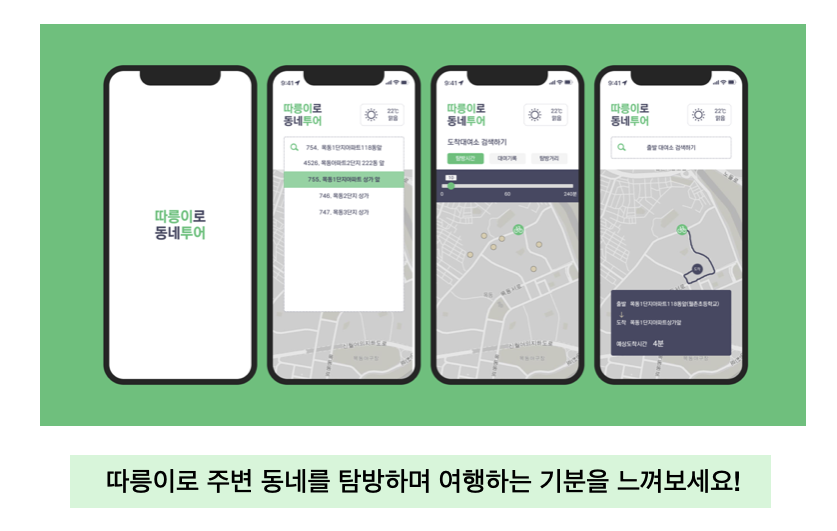
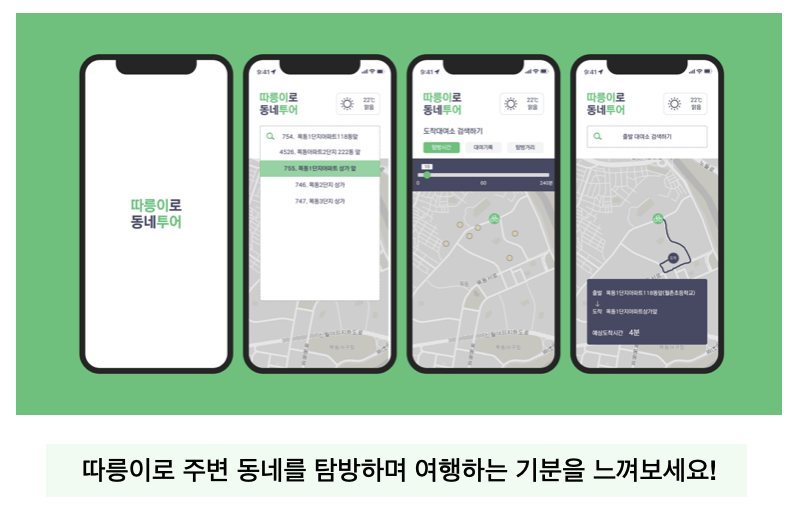
2022-08-06

diff --git a/README.md b/README.md
@@ -1,10 +1,9 @@
 # 따릉이로 동네투어
 
-</br>
 <div align='center'>
     <img src='ReadMeImg/mainImgWithtext.png'>
 </div>
-</br>
+<!-- </br> -->
 
 <!-- ![mainImgWIthtext](/ReadMeImg/mainImgWithtext.png) -->
 
@@ -12,11 +11,11 @@
 
 따릉이로 동네투어는 **따릉이를 타고 집 주변 동네를 탐방할 수 있는 목적지를 추천**하는 앱입니다. 같은 목적지를 가더라도 평소 가지 않던 길로 여정을 꾸리다보면 이전에 알지 못했던 새로운 동네를 발견할 수 있습니다. **동네 여행의 재미는 자신만의 경로를 개척하는 과정에서 느끼게 됩니다.** 따릉이로 동네투어를 통해 목적지를 선정하고 본인만의 경로로 이동하며 기존에 몰랐던 주변 동네 풍경을 감상하거나 새로운 음식점, 카페 등을 발견하면서 여행하는 재미를 느낄 수 있습니다.
 
-</br>
+<!-- </br> -->
 <div align='center'>
-    <img src='ReadMeImg/variousDirection.png'>
+    <img width='600px' src='ReadMeImg/variousDirection.png'>
 </div>
-</br>
+<!-- </br> -->
 
 ### 목적지까지 본인만의 경로를 개척해보세요!
 
@@ -56,21 +55,21 @@
 - 1년간 3000만건의 대여기록 발생, 대여소 하나 당 8천~ 12만 건의 대여기록을 보유. 대여소 별 편차 큼
 - 하나의 대여소에서 출발한 자전거는 인근 수백개의 대여소에 분산되어 반납. **그러나 90% 자전거가 20%의 대여소에 집중적으로 반납, 10%의 자전거만이 나머지 80%의 대여소로 반납**
 
-</br>
+<!-- </br> -->
 <div align='center'>
-    <img src='ReadMeImg/stationToStation.png'>
+    <img width='400px'src='ReadMeImg/stationToStation.png'>
 </div>
-</br>
+<!-- </br> -->
 
 ## 동네 여행에 적합한 대여소 추천 모델 개발
 
 사용자에게 적합한 목적지를 선정하는 단계를 거치면서 정제된 대여소를 보여줍니다. 출발지는 여의나루역 대여소로 약 1600개 대여소와 상호 작용을 합니다. 1,2단계 전처리 과정은 여행에 적합하지 않은 목적지를 제거하는데 집중됩니다. 3단계는 밀집해 있는 대여소를 하나로 통합 합니다. 비슷한 위치에 있는 대여소는 경로상 차이가 없으므로 하나의 대여소로 통합해서 사용자가 더 쉽게 판단할 수 있도록 설정했습니다. 각 전처리 단계를 세부적으로 설명하겠습니다.
 
-</br>
+<!-- </br> -->
 <div align='center'>
-    <img src='ReadMeImg/process0.png'>
+    <img width='700px' src='ReadMeImg/process0.png'>
 </div>
-</br>
+<!-- </br> -->
 
 ### 0단계 : 전체 대여기록에서 사용자가 선택한 대여소의 대여기록 추출
 
@@ -82,49 +81,49 @@
 
 해당 대여소까지 가는 경로상에 자전거로 이동하기 어려운 지형 있거나, 주변을 갈만한 이유가 없을수도 있고, 차량 이동이 잦은 경로라 자전거 이용이 위험할 수 도 있습니다. 따라서 반납 건수가 일정 수준 미만인 대여소는 여행지로 갈만한 대여소로 구분 지을 수 있습니다. 아래와 같이 최소한의 기준을 설정하여 불필요한 대여소를 제거한 결과 자전거로 이동하기 어려운 대여소들을 쉽게 제거할 수 있었습니다.
 
-</br>
+<!-- </br> -->
 <div align='center'>
-    <img src='ReadMeImg/process1.png'>
+    <img width='600px' src='ReadMeImg/process1.png'>
 </div>
-</br>
+<!-- </br> -->
 
 ### 2단계 : 대여소 간 관계를 통해 적합하지 않은 대여소 제거
 
 첫 번째 단계가 최소한의 기준을 설정해 대여소를 제거하는 방식이라면, 두 번째 단계는 대여소 별 관계를 파악해 적합하지 않는 대여소를 제거하는 방식입니다. 이 방식은 대여소 별 반납 비율을 구한 다음 진행합니다. 예로들어 A 대여소에서 B 대여소로의 반납기록이 50건이고, B 대여소에서 A 대여소의 반납 기록이 200건이라고 생각해 보겠습니다. 출발지와 목적지만 바뀔 뿐 같은 경로를 이동 함에도 A 대여소의 기록은 B 대여소의 1/4에 불과합니다.
 
-</br>
+<!-- </br> -->
 <div align='center'>
     <img width='700px' src='ReadMeImg/bikeRentalRate.png'>
 </div>
-</br>
+<!-- </br> -->
 
 불균형이 발생한 이유를 단순히 생각하더라도 B 대여소에서 A 대여소로 가는 경우가 그 반대보다 편하기 때문이라 판단할 수 있습니다. 실제로 기존 데이터에 고도 데이터를 융합해 분석해보니 고도와 대여 비율에 상관 관계가 있음을 확인했습니다.
 
 아래 그래프는 출발 도착 대여소 간 고도 차이와 반납 비율의 차이를 보여줍니다. 그래프의 X 축은 A → B 대여소의 높이 차이를 의미합니다. 높이 차이가 60m 에서 시작해서 계속해서 줄어들어 최대 -60m까지 내려 가는 것을 보여주고, Y축은 평균 대여 비율이 0.6 배에서 시작해서 고도차이가 거의 없을때는 1:1 비율에 수렴한 뒤 1.69배 까지 올라가게 됩니다. 이 그래프를 통해 우리가 확인할 수 있는 점은 대여 비율을 통해 해당 경로가 이동하기 쉬운 길인지, 아닌지를 분별 할 수 있다는 사실입니다.
 
-</br>
+<!-- </br> -->
 <div align='center'>
-    <img src='ReadMeImg/rateAndHeight.png'>
+    <img width='600px' src='ReadMeImg/rateAndHeight.png'>
 </div>
-</br>
+<!-- </br> -->
 
 ### 3단계 : K-means를 활용해 중첩 대여소 제거
 
 최종 단계는 중첩된 대여소들을 하나로 통합하는 단계입니다. 동네 여행의 재미는 새로운 경로로 이동하며 기존에 알지 못했던 주변 동네의 새로운 모습을 발견하는것으로 부터 옵니다. 이런 취미를 오랫동안 즐기기 위해서는 사용자에게 다양한 경로가 제공되어야 합니다. 출발지에서 목적지로 향하는 방향에 따라 여행 경로가 결정되기 때문에 동일한 경로를 이용하는 대여소는 사실상 중복된 대여소와 같습니다. 중첩된 대여소를 제거하고 방향을 보존함으로써 사용자에 더 좋은 목적지를 추천할 수 있습니다.
 
-</br>
+<!-- </br> -->
 <div align='center'>
-    <img src='ReadMeImg/process3-1.png'>
+    <img width='600px' src='ReadMeImg/process3-1.png'>
 </div>
-</br>
+<!-- </br> -->
 
 중첩된 대여소를 찾고 제거하는 과정은 두 번의 클러스터링 방법을 적용하여 달성됩니다. 클러스터링 기법을 두 번 적용하는 이유는 출발 대여소를 기준으로 같은 방향에 위치한 대여소들 중에 군집된 대여소를 쉽게 찾아낼 수 있기 때문입니다. 아래 지도를 보면 알 수 있듯이 출발 대여소 기준으로 같은 방향에 있는 대여소들이 군집을 형성하고 있습니다. 1차로 군집된 대여소들에 다시 한번 클러스터링을 적용하는 이유는 특정 군집에 속한 대여소들의 세부 방향을 정하기 위함입니다. 즉 1차 클러스터링으로 큰 방향성을 정한 뒤 2차 클러스터링으로 세부적인 방향을 정하는 것입니다.
 
-</br>
+<!-- </br> -->
 <div align='center'>
-    <img src='ReadMeImg/process3-2.png'>
+    <img width='600px' src='ReadMeImg/process3-2.png'>
 </div>
-</br>
+<!-- </br> -->
 
 1차 클러스터링의 경우 출발 대여소와의 직선거리를 기준으로 대여소를 구분한 다음 클러스터링 기법을 적요합니다. 예로들어 출발 대여소와 2 ~ 4km 사이에 있는 대여소를 추출한 다음 해당 대여소들을 가지고  클러스터링을 진행합니다. 이런 방식으로 가장 멀리 떨어져 있는 거리까지 클러스터링을 진행합니다. 거리를 나눠 세부적으로 클러스터링을 적용함으로써 거리에 대한 다양성 또한 보존할 수 있습니다.
 
@@ -141,17 +140,3 @@
 데이터 분석의 경우 군에서 많은 경험이 있었지만 분석 결과를 실제로 활용하는 것은 제 몫이 아니었습니다. 결과를 직접 활용해서 뭔가 사람들에게 영향을 줄 수 있는 사용자들이 좀 사용해 볼 수 있고 실제로 어떤 기능을 갖고 있는 최종적인 생산물을 만들어 낸다는 것에서 개인적인 성취감을 느꼈습니다.
 
 한편으로는 이경험이 나중에 다른 분야의 사람들과들을 할 때 특히 개발 분야에 있는 사람에게도 일할 때 도움이 될 수 있을 거라고 생각합니다. 그들의 언어를 제가 습득을 하고 있고 앞으로도 계속 습득 할 예정이기 때문에 그들의 언어로 최대한 이야기를 할 수있고 그래 통해서 어떤 시너지 효과를 기대할 수 있을 거라 생각합니다. 제가 기본적인 기능을 갖춘 제품을 만들고 다른 직원에서 이 기능을 가지고 아예 새롭게 완벽한 제품을 만든 다음에는 제가 분석한 결과가 실제로도 반영이 될 수 있을 거라고 생각이 되서 어 상당히 업무적으로도 도움이 될 것 같다는 생각을 했습니다. (만들면서 내가 분석한 데이터가 실용성 있는지 체크할 수 있었고 과정에서 인사이트를 얻었다.)
-
-창고
-
-### 느낀점
-
-웹 개발 관련해서는 원래 궁금 했었던 내용이었는데 목적을 가지고 배움으로써 더 빠르고 더 의미있게 배웠던 거 같습니다. 이렇게 한 번 배우고 난 내용들은 시간이 지나면 까먹겠지만 그 배우는 속도가 다시 배우는 속도가 몇배는 빠르다는 것을 알고 있었고, 나중에도 도움이 될 거라고 생각했습니다 실제로 다음 프로젝트에서도 이 역량을 활용해서 프로젝트를 진행하고 그 결과를 누군가에게 직접 내가 만든 문서 기능을 사람들이 사용할 수 있도록 제공 했다는 점에서 의미가 있는 것 같습니다.
-
-다른 분야에 대한 지식은 회사 내 다른 분야의 사람들과 소통하는데도 도움 될 수 있습니다. 왜냐하면은 그들의 언어를 제가 배우고 이해하고 있으면 앞으로도 계속 배울 것이기 때문에 그 사람들의 그 사람들과 이야기 할 수 있는 잡 점이 많다고 생각합니다.
-
-분석방법 1번
-
-이 프로젝트 데이터 분석은 두 가지를 달성하기 위해서 진행이 됐어. 첫번째는 여행에 적합하지 않은 목적지를 제거하는 것입니다. 여행 목적 자체가 여행 주변 동네를 따릉이를 타고 여행 하는 것인 만큼, 여행에 방해가 되는 요소들이 있는 목적지를 제거하는데 분석의 초점을 맞췄습니다.
-
-두번째는 목적지의 다양성을 확보하는 것이었습니다. 사용자는 앱을 통해 얻은 목적지를 가지고 자신만의 경로를 만들어서 여행을 하게 됩니다. 이 앱의 재미는 목적지에 가는 길에서 새로운 것들을 발견하면서 즐거움을 얻는 과정입니다. 목적지가 같을지라도 할지라도 다양한 경로로 이동한다면 새로운 느낌을 만들어 내게 됩니다.. 따라서 목적지도 중요하지만, 방향 또한 중요하다고 판단을 내렸습니다.
